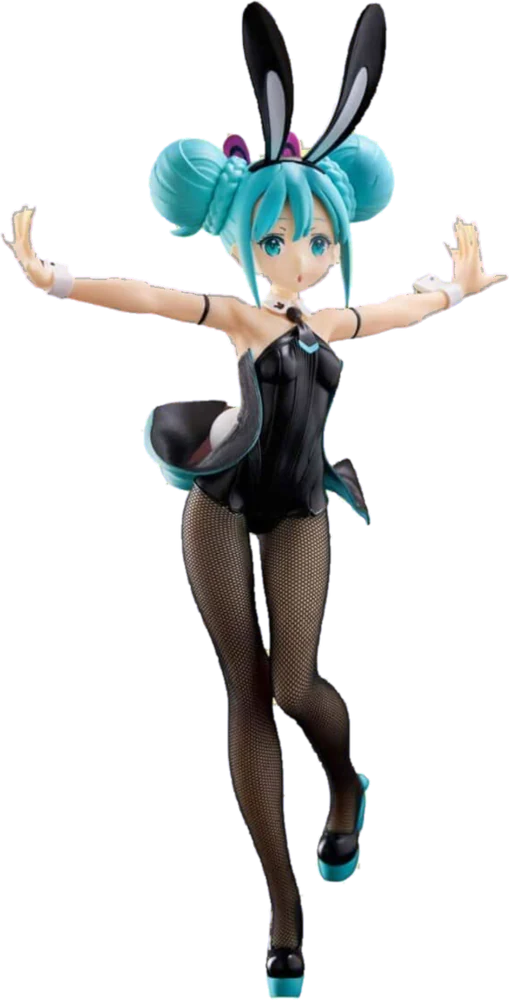
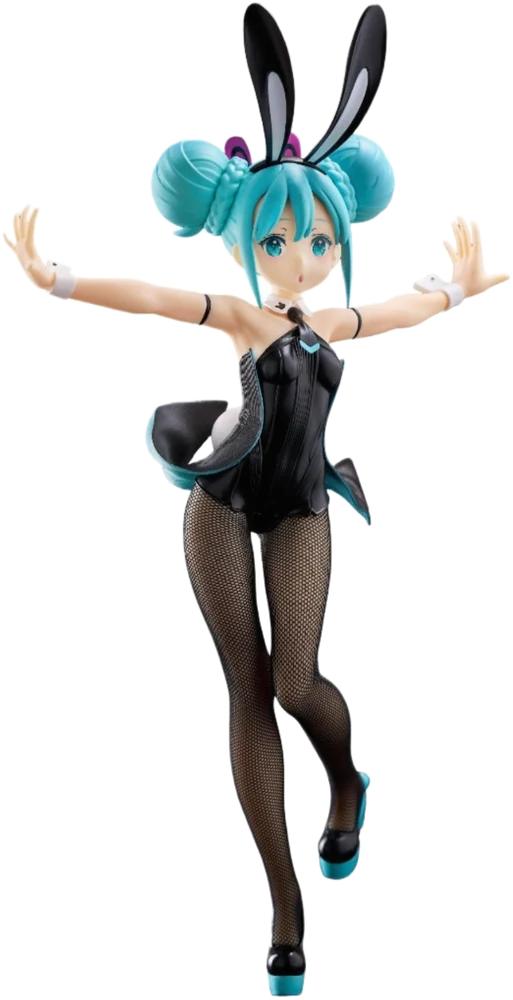
Miku: 5 fotos con fondo quitado por IA (BiRefNet), estilo uniforme
Claude-Session: https://claude.ai/code/session_01Ep3hoigLpL3vSJu2WzMK9w

diff --git a/index.html b/index.html
@@ -664,7 +664,7 @@ const PRODUCTOS = [
   {id:11, nombre:"Fortnite 1.000 V-Bucks", cat:"Gift Cards", precio:10, emoji:"🎮", origen:["🇺🇸","US"], desc:"Código digital. Te lo enviamos por WhatsApp al confirmar el pago.", nuevo:true, stock:true, digital:true},
   {id:12, nombre:"League of Legends $10", cat:"Gift Cards", precio:11, emoji:"🎟", origen:["🇺🇸","US"], desc:"Tarjeta de Riot Points. Código digital por WhatsApp.", stock:true, digital:true},
   {id:14, desde:"2026-11-13", nombre:"Control con cable PowerA Advantage Mario Time — Nintendo Switch 2", cat:"Controles", precio:50, cantidad:2, autenticidad:"original", emoji:"🎮", fotos:["img/productos/14-1.webp","img/productos/14-2.webp","img/productos/14-3.webp","img/productos/14-4.webp"], desc:"🔌 Control CABLEADO (con cable, no es inalámbrico): se conecta a la Nintendo Switch 2 con el cable USB-C desmontable de 3 m incluido, sin pilas ni carga. Licencia oficial de Nintendo, diseño Mario Time, sticks Hall Effect (más precisos y duraderos), 2 botones traseros programables y botón C para GameChat. Funciona con la consola en modo dock (conectada al TV). No es compatible con HD rumble, cámara IR, controles de movimiento ni amiibo NFC.", nuevo:true},
-  {id:15, desde:"2026-11-13", nombre:"Figura Hatsune Miku BiCute Bunnies — FuRyu", cat:"Figuras", precio:40, cantidad:1, autenticidad:"original", origen:["🇯🇵","JP"], emoji:"🐰", fotos:["img/productos/15-1.webp","img/productos/15-2.webp","img/productos/15-3.webp"], etiqueta:"Caja dañada", desc:"Figura original de FuRyu, línea BiCute Bunnies, con licencia oficial de Hatsune Miku. Altura aprox. 31 cm. Figura tipo prize, pintada, fija (sin articulaciones) y con base. Materiales: PVC, ABS y poliéster (las medias de red son de tela real). ⚠ La caja tiene daños; por eso tiene precio especial. Las fotos son oficiales de FuRyu: pídenos por WhatsApp fotos reales de la caja antes de comprar.", nuevo:true}
+  {id:15, desde:"2026-11-13", nombre:"Figura Hatsune Miku BiCute Bunnies — FuRyu", cat:"Figuras", precio:40, cantidad:1, autenticidad:"original", origen:["🇯🇵","JP"], emoji:"🐰", fotos:["img/productos/15-1.webp","img/productos/15-2.webp","img/productos/15-3.webp","img/productos/15-4.webp","img/productos/15-5.webp"], etiqueta:"Caja dañada", desc:"Figura original de FuRyu, línea BiCute Bunnies, con licencia oficial de Hatsune Miku. Altura aprox. 31 cm. Figura tipo prize, pintada, fija (sin articulaciones) y con base. Materiales: PVC, ABS y poliéster (las medias de red son de tela real). ⚠ La caja tiene daños; por eso tiene precio especial. Las fotos son oficiales de FuRyu: pídenos por WhatsApp fotos reales de la caja antes de comprar.", nuevo:true}
 ];
 
 /* ========================================================= */
